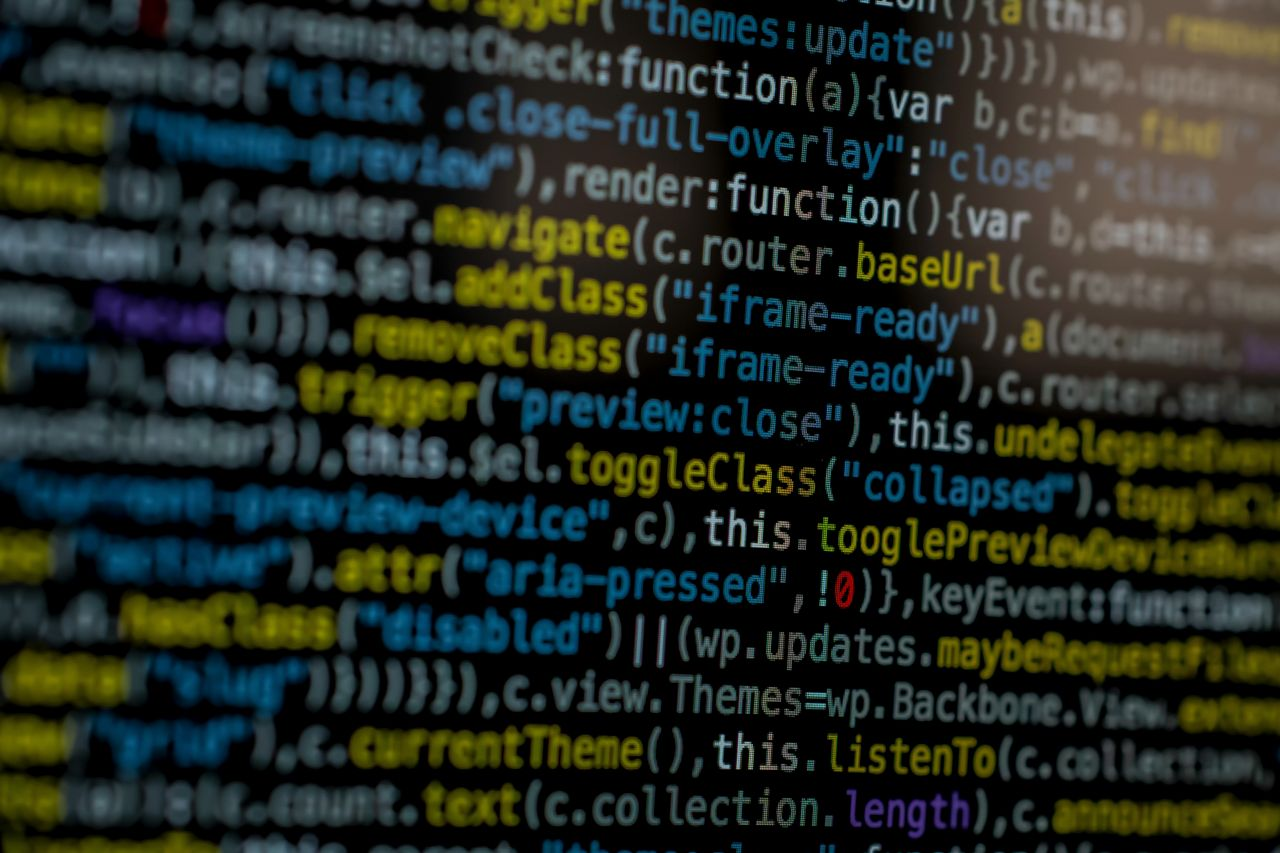
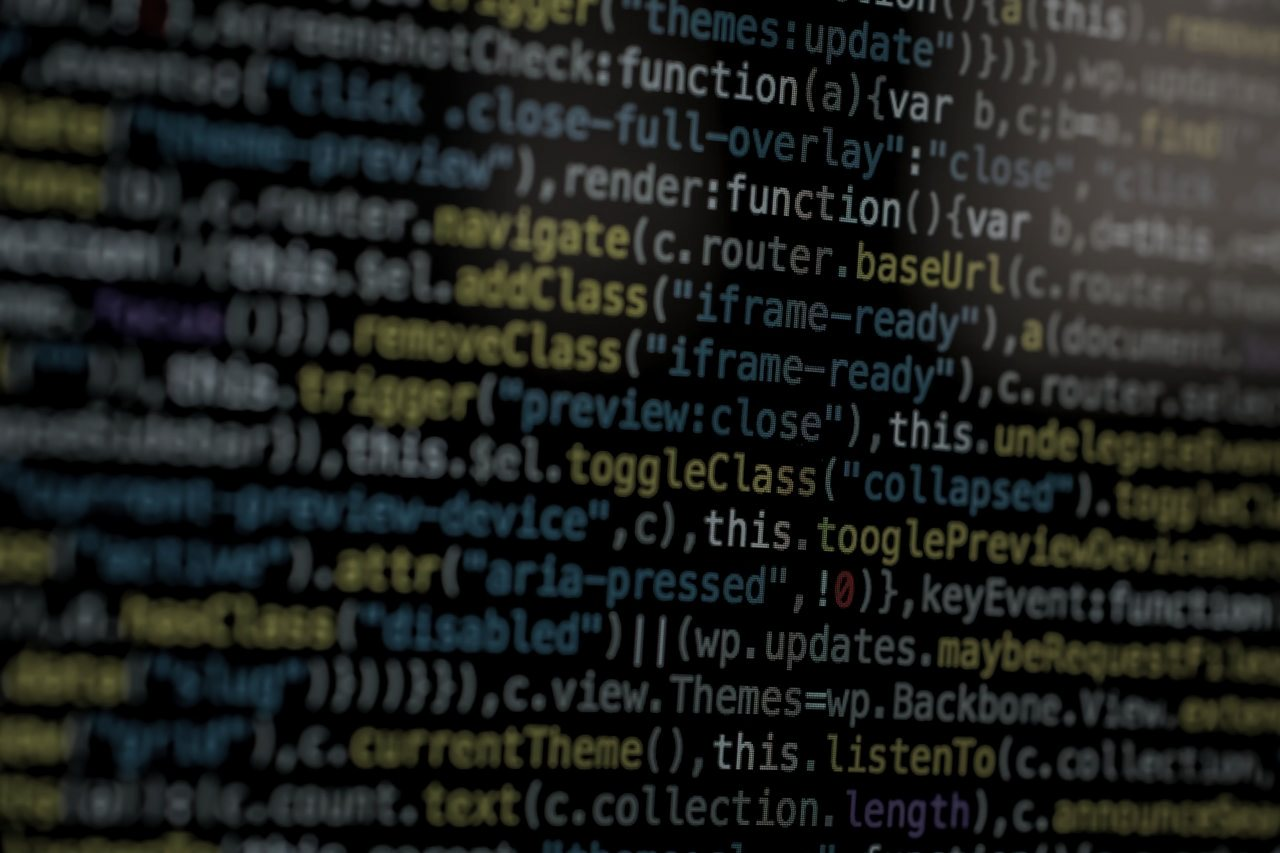
Brevet lukker sig ned i knappen, og svaret aabner sig ud af den
Brevet, kvitteringen og svaret var tre ting der skiftedes til at staa paa
samme plet: en krympede vaek, en tonede frem i hullet, og en faldt ned
ovenfra. Tre overblaendinger i traek — og halvandet sekund i midten hvor
en lille graa pille sad alene paa en tom skaerm.

De er en ting nu. Blaekket gaar foerst, og saa lukker selve glasset sig
ind fra alle fire sider, og hjoernerne runder af til en pille i takt med
at formen bliver lille nok til at det er hvad den er. Kvitteringen ER den
form, saa den tager over ved praecis samme stoerrelse — og overtagelsen
er bundet til formen og ikke til uret, saa den sker i det oejeblik de to
er lige store, mens der stadig er bevaegelse at gemme den i. Bagefter
aabner den sig ud den anden vej, til svaret.

Det er den samme mekanik som de tre leverandoerer der bliver til blokken:
former der aendrer sig, ikke ting der bliver skiftet ud. Og det doede
hul i midten er vaek, fordi der ikke er noget hul at efterlade — der er
altid noget paa vej et sted hen.

En clip-path klipper alt hvad et element tegner, kanten med, saa et kort
der lukker sig mistede sin kant paa foerste billede og tilbragte hele
lukningen som en bloed plade uden omrids. Kanten er tegnet indeni nu,
praecis hvor klippet er, og flyttet af de samme tre tal.

Og de to kodebilleder ligger oven paa hinanden. Med luft imellem var to
rektangler paa en moerk scene bare to rektangler paa en moerk scene —
en collage med et hul i midten. Det forreste er samtidig taget ned i
[…]

diff --git a/index.html b/index.html
@@ -21,8 +21,8 @@
 <link rel="stylesheet" href="bbh.css?v=10" />
 <link rel="stylesheet" href="kunder.css?v=16" />
 <link rel="stylesheet" href="telefon.css?v=6" />
-<link rel="stylesheet" href="softwarehus.css?v=16" />
-<link rel="stylesheet" href="kontakt.css?v=4" />
+<link rel="stylesheet" href="softwarehus.css?v=18" />
+<link rel="stylesheet" href="kontakt.css?v=5" />
 <link rel="stylesheet" href="mork.css?v=4" />
 <link rel="stylesheet" href="dybde.css?v=3" />
 </head>
@@ -1406,11 +1406,36 @@
       /* The three stacked pieces are absolutely placed, so each is centred
          once by its own height rather than measured every frame. */
       function ktCentre(el){ el.style.top='50%'; el.style.marginTop=(-el.offsetHeight/2)+'px'; }
+      /* The three pieces are one object in three states, so the loop has to
+         know all three boxes: the letter shuts down onto the receipt's
+         footprint, and the answer opens back out of it. Read when the
+         layout is read and kept. */
+      var ktBox={aw:1,ah:1,pw:1,ph:1,rw:1,rh:1};
+      function ktMeasure(){
+        var aw=ktAsk.offsetWidth, ah=ktAsk.offsetHeight,
+            pw=ktSent.offsetWidth, ph=ktSent.offsetHeight,
+            rw=ktReply.offsetWidth, rh=ktReply.offsetHeight;
+        if(aw&&ah&&pw&&ph&&rw&&rh) ktBox={aw:aw,ah:ah,pw:pw,ph:ph,rw:rw,rh:rh};
+      }
+      /* inset() will not take a negative, so a clip is only ever written
+         while the shape is actually closing — an inset of nought still
+         cuts the shadow off, and a card is not meant to lose its shadow
+         for the four seconds it spends being read. */
+      function ktClip(el, k, hIn, vIn){
+        var x=(hIn*k).toFixed(2), y=(vIn*k).toFixed(2), r=(26+k*k*420).toFixed(0);
+        el.style.clipPath = k<=0.002 ? 'none'
+          : 'inset('+y+'% '+x+'% '+y+'% '+x+'% round '+r+'px)';
+        /* and the drawn edge goes exactly where the clip is */
+        el.style.setProperty('--ex', x+'%');
+        el.style.setProperty('--ey', y+'%');
+        el.style.setProperty('--er', r+'px');
+        el.style.setProperty('--eo', Math.min(1,k*7).toFixed(3));
+      }
       /* On the reduced-motion path the three pieces come out of absolute and
          stack as an ordinary column. Centring them there pulls each one half
          its own height upwards, straight through the one above it — so the
          placing only happens when there is a stage to place them on. */
-      function ktLayout(){ if(reduce) return; [ktAsk,ktReply,ktFin].forEach(ktCentre); }
+      function ktLayout(){ if(reduce) return; [ktAsk,ktReply,ktFin].forEach(ktCentre); ktMeasure(); }
       /* The letter is read out of the page rather than held as a string in
          here, so switching language switches the letter too. nodeValue is
          a straight read of the one text node — cheap enough per frame, and
@@ -1436,6 +1461,9 @@
           ktRTxt=(ktRSrc.firstChild && ktRSrc.firstChild.nodeValue)||'';
           ktRTyped.textContent=ktRTxt; ktRN=-1;
           SC.plain([ktAsk,ktReply,ktFin,ktRig,ktRSub].concat(ktW));
+          ktAsk.style.clipPath='none'; ktReply.style.clipPath='none';
+          ktAsk.style.setProperty('--eo','0'); ktReply.style.setProperty('--eo','0');
+          ktAsk.style.setProperty('--ink','1'); ktReply.style.setProperty('--ro','1');
           ktRCaret.style.display='none';
           ktCaret.style.display='none';
           SC.set(ktSent,null,'0');
@@ -1448,55 +1476,83 @@
           var R=(ktRSrc.firstChild && ktRSrc.firstChild.nodeValue)||'';
           if(R!==ktRTxt){ ktRTxt=R; ktRN=-1; ktLayout(); }
 
-          /* act one — the message writes itself */
+          /* ---------- one object, three states ----------
+             The letter, the receipt and the answer used to be three
+             things taking turns on the same spot: one shrank away, one
+             faded up in the hole it left, and one dropped in from above.
+             Three fades in a row, and a second and a half in the middle
+             where a small grey pill sat alone on an empty screen.
+
+             They are one object now. The letter shuts down onto the
+             receipt's own footprint — the ink goes first, then the glass
+             itself closes in from all four sides and the corners round off
+             into the pill as it gets small enough for that to be what it
+             is. The receipt is that same shape, so it takes over at the
+             identical size and nobody sees the hand-off. And then it opens
+             back out the other way, into the answer.
+
+             It is the same device as the three suppliers becoming the
+             block: shapes that change, not things that swap. The dead air
+             in the middle is gone because there is no gap to leave —
+             something is always on its way somewhere. */
+
+          /* act one — the message writes itself, and is sent */
           var arrive=SC.film(SC.seg(s,0,.06)),
               typeP=SC.seg(s,.035,.30),
-              /* and then it is sent. It used to be pushed back into the
-                 depth, which is a card leaving; this is a letter going
-                 somewhere. It folds down onto the point the receipt comes
-                 out of, and the receipt comes out of the same point — so
-                 what you see is the message packed into the button. */
-              leave=SC.io(SC.seg(s,.42,.50));
+              /* the ink goes before the paper does */
+              inkOut=SC.io(SC.seg(s,.392,.438)),
+              shut=SC.io(SC.seg(s,.404,.482)),
+              /* and the receipt takes over at the size the letter has
+                 closed to, which is its own size. The hand-off happens
+                 while the shape is still moving, not after it has stopped:
+                 a swap under motion is a swap nobody sees. */
+              hand=SC.io(SC.seg(shut,.88,1));
           var n=Math.round(typeP*ktSrc.length);
           if(n!==ktN){ ktN=n; ktTyped.textContent=ktSrc.slice(0,n); }
-          var writing = typeP>0 && typeP<1 && leave<.02;
+          var writing = typeP>0 && typeP<1 && shut<.02;
           if(writing !== (ktCaret.style.display===''))
             ktCaret.style.display = writing ? '' : 'none';
           SC.set(ktAsk,
             'translate3d(0,'+((1-arrive)*4).toFixed(2)+'vh,'+
               (-560*(1-arrive)).toFixed(1)+'px) rotateX('+
-              ((1-arrive)*9).toFixed(2)+'deg) scale('+
-              ((.94+arrive*.06)*(1-leave*.82)).toFixed(4)+','+
-              ((.94+arrive*.06)*(1-leave*.94)).toFixed(4)+')',
-            (arrive*(1-SC.seg(s,.46,.505))).toFixed(3),
-            SC.blur((1-arrive)*14+leave*5));
-          ktAsk.style.setProperty('--sx',(SC.seg(s,0,.42)*150-40).toFixed(1)+'%');
+              ((1-arrive)*9).toFixed(2)+'deg) scale('+(.94+arrive*.06).toFixed(4)+')',
+            (arrive*(1-hand)).toFixed(3), SC.blur((1-arrive)*14));
+          ktAsk.style.setProperty('--ink',(1-inkOut).toFixed(3));
+          ktClip(ktAsk, shut, 50*(1-ktBox.pw/ktBox.aw), 50*(1-ktBox.ph/ktBox.ah));
+          ktAsk.style.setProperty('--sx',(SC.seg(s,0,.40)*150-40).toFixed(1)+'%');
 
-          /* act two — the receipt, out of the point the letter folded onto */
-          var sp=SC.seg(s,.455,.60);
-          SC.set(ktSent,
-            'translate(-50%,-50%) scale('+(.46+SC.io(Math.min(1,sp*2.2))*.54).toFixed(4)+')',
-            (Math.sin(Math.min(1,sp*1.05)*Math.PI)*.98).toFixed(3));
+          /* act two — the receipt. One beat, and it is the shape the
+             letter closed to, so it neither arrives nor leaves: it is
+             what is standing there while nothing is happening. */
+          var open=SC.io(SC.seg(s,.530,.632)),
+              /* it goes when the answer has opened past its own size, not
+                 at some moment on the clock that happens to be near it */
+              pillOut=SC.io(SC.seg(open,0,.14));
+          SC.set(ktSent,'translate(-50%,-50%)',
+            (hand*(1-pillOut)).toFixed(3));
 
-          /* act three — the answer comes in from above, lands, and is
-             written out the way the letter above it was */
-          var rp=SC.seg(s,.56,.64), rb=back(rp), rOut=SC.io(SC.seg(s,.905,.95));
+          /* act three — and it opens back out into the answer, which is
+             then written the way the letter above it was */
+          var rOut=SC.io(SC.seg(s,.905,.95));
           SC.set(ktReply,
-            'translate3d(0,'+((1-rb)*-12-rOut*12).toFixed(2)+'vh,'+
-              (-420*(1-rb)-rOut*300).toFixed(1)+'px) rotateX('+
-              ((1-rb)*-10+rOut*6).toFixed(2)+'deg) scale('+(.9+rb*.1).toFixed(4)+')',
-            (Math.min(1,rp*3)*(1-rOut)).toFixed(3),
-            SC.blur((1-Math.min(1,rp*1.3))*14+rOut*12));
+            'translate3d(0,'+(-rOut*12).toFixed(2)+'vh,'+(-rOut*300).toFixed(1)+'px) rotateX('+
+              (rOut*6).toFixed(2)+'deg) scale(1)',
+            ((s>=.528?1:0)*(1-rOut)).toFixed(3), SC.blur(rOut*12));
+          ktClip(ktReply, 1-open, 50*(1-ktBox.pw/ktBox.rw), 50*(1-ktBox.ph/ktBox.rh));
+          /* what is printed on it comes up once the paper is open — a card
+             whose text is already there while it is still a pill is a
+             pill with somebody else's writing showing through it */
+          ktReply.style.setProperty('--ro',SC.out(SC.seg(s,.574,.632)).toFixed(3));
           ktReply.style.setProperty('--sx',(SC.seg(s,.56,.95)*150-40).toFixed(1)+'%');
-          var rType=SC.seg(s,.615,.745),
+          var rType=SC.seg(s,.628,.752),
               rn=Math.round(rType*ktRTxt.length);
           if(rn!==ktRN){ ktRN=rn; ktRTyped.textContent=ktRTxt.slice(0,rn); }
           var rWriting = rType>0 && rType<1 && rOut<.02;
           if(rWriting !== (ktRCaret.style.display===''))
             ktRCaret.style.display = rWriting ? '' : 'none';
           /* the line under it follows the sentence, not the card */
-          SC.set(ktRSub,'translate3d(0,'+((1-SC.out(SC.seg(s,.755,.815)))*10).toFixed(2)+'px,0)',
-            SC.out(SC.seg(s,.755,.815)).toFixed(3));
+          SC.set(ktRSub,'translate3d(0,'+((1-SC.out(SC.seg(s,.770,.828)))*10).toFixed(2)+'px,0)',
+            SC.out(SC.seg(s,.770,.828)).toFixed(3));
 
           /* act four — the question goes back to the reader */
           var fp=SC.out(SC.seg(s,.925,.995));

diff --git a/kontakt.css b/kontakt.css
@@ -64,7 +64,24 @@
   pointer-events:none; mix-blend-mode:screen;
   background:linear-gradient(105deg, transparent 32%, rgba(255,255,255,.32) 48%, transparent 66%);
   transform:translateX(var(--sx,-40%)); will-change:transform; }
+/* ---------- the edge that closes with the shape ----------
+   A clip-path cuts everything the element paints, its border included, so
+   a card being shut down onto the receipt's footprint loses its edge on
+   the first frame of the move and spends the whole close as a soft slab
+   with no outline — and then a bordered pill appears out of nowhere at the
+   end. This is that edge, drawn inside the box at exactly where the clip
+   is, and moved by the same three numbers. It is off while the card is
+   open, so it never doubles the real border. */
+.kt-card::after{ content:""; position:absolute; z-index:2; pointer-events:none;
+  inset:var(--ey,0%) var(--ex,0%); opacity:var(--eo,0);
+  border:1px solid var(--edge); border-radius:var(--er,26px);
+  box-shadow:inset 0 1px 0 rgba(255,255,255,.3); }
 
+/* What is printed on the glass is not the glass. The letter's writing
+   goes before the paper closes, and the answer's appears once the paper
+   is open, so each card hands the loop one number for all of its ink. */
+.kt-ask .kt-meta, .kt-ask .kt-msg{ opacity:var(--ink,1); }
+.kt-reply .kt-meta, .kt-reply .kt-msg, .kt-reply .kt-from{ opacity:var(--ro,1); }
 .kt-meta{ display:flex; align-items:center; gap:10px; font-size:11.5px; font-weight:600;
   letter-spacing:.18em; text-transform:uppercase; color:rgba(238,243,248,.58); }
 .kt-meta b{ color:var(--ink); font-weight:600; }
@@ -95,12 +112,20 @@
   text-transform:uppercase; color:rgba(238,243,248,.52); }
 
 /* ---------- the receipt ----------
-   One beat, in the gap the letter leaves behind. */
+   Not a different object. It is the shape the letter closes to, in the
+   same glass, with the same edge and the same shadow — so when it takes
+   over at exactly that size there is nothing to see. Its box is fixed
+   rather than left to its own text, because the two cards are clipped
+   down to it and a footprint that changes with the language is a
+   footprint neither of them can aim at. */
 .kt-sent{ position:absolute; left:50%; top:50%; opacity:0;
-  transform:translate(-50%,-50%); display:flex; align-items:center; gap:11px;
-  padding:12px 22px; border-radius:999px; white-space:nowrap;
-  background:rgba(232,238,244,.11); border:1px solid var(--edge);
-  -webkit-backdrop-filter:blur(18px); backdrop-filter:blur(18px);
+  transform:translate(-50%,-50%); display:flex; align-items:center;
+  justify-content:center; gap:11px; box-sizing:border-box;
+  width:196px; height:52px; padding:0 22px; border-radius:999px; white-space:nowrap;
+  background:linear-gradient(150deg, rgba(232,238,244,.15), rgba(232,238,244,.05) 44%, rgba(232,238,244,.1));
+  border:1px solid var(--edge);
+  box-shadow:0 40px 90px -42px rgba(0,0,0,.76), inset 0 1px 0 rgba(255,255,255,.34);
+  -webkit-backdrop-filter:blur(24px) saturate(180%); backdrop-filter:blur(24px) saturate(180%);
   font-size:12.5px; font-weight:600; letter-spacing:.16em; text-transform:uppercase;
   pointer-events:none; will-change:transform,opacity; }
 .kt-sent svg{ display:block; width:16px; height:16px; flex:none;

diff --git a/softwarehus.css b/softwarehus.css
@@ -108,11 +108,18 @@
   box-shadow:0 34px 70px -34px rgba(0,0,0,.82), inset 0 1px 0 rgba(255,255,255,.22);
   will-change:transform,opacity; }
 .sw-shot.pair img{ display:block; width:100%; height:100%; object-fit:cover; }
+/* They overlap. Apart, with clear air between them, two rectangles on a
+   dark stage are two rectangles on a dark stage — a collage, with a hole
+   in the middle of it. Overlapping by a corner they are two prints lying
+   on top of each other, which is a thing, and the one in front casts onto
+   the one behind so the depth is real rather than implied. */
 /* the screen, set back and up */
-.sw-shot.pair .sh-b{ right:0; top:0; width:78%; aspect-ratio:3/2;
-  filter:brightness(.78) saturate(.85); }
-/* and the code itself, in front and low */
-.sw-shot.pair .sh-f{ left:0; bottom:0; width:70%; aspect-ratio:3/2; }
+.sw-shot.pair .sh-b{ right:0; top:0; width:84%; aspect-ratio:3/2;
+  filter:brightness(.72) saturate(.78); }
+/* and the code itself, in front and low, lying across its corner */
+.sw-shot.pair .sh-f{ left:2%; bottom:10%; width:68%; aspect-ratio:3/2;
+  box-shadow:0 30px 60px -26px rgba(0,0,0,.9), -14px -14px 40px -18px rgba(0,0,0,.7),
+    inset 0 1px 0 rgba(255,255,255,.22); }
 
 /* act one — the text writes itself */
 .sw-bio{ margin:clamp(12px,2vh,22px) 0 0; max-width:30ch; white-space:pre-line;
